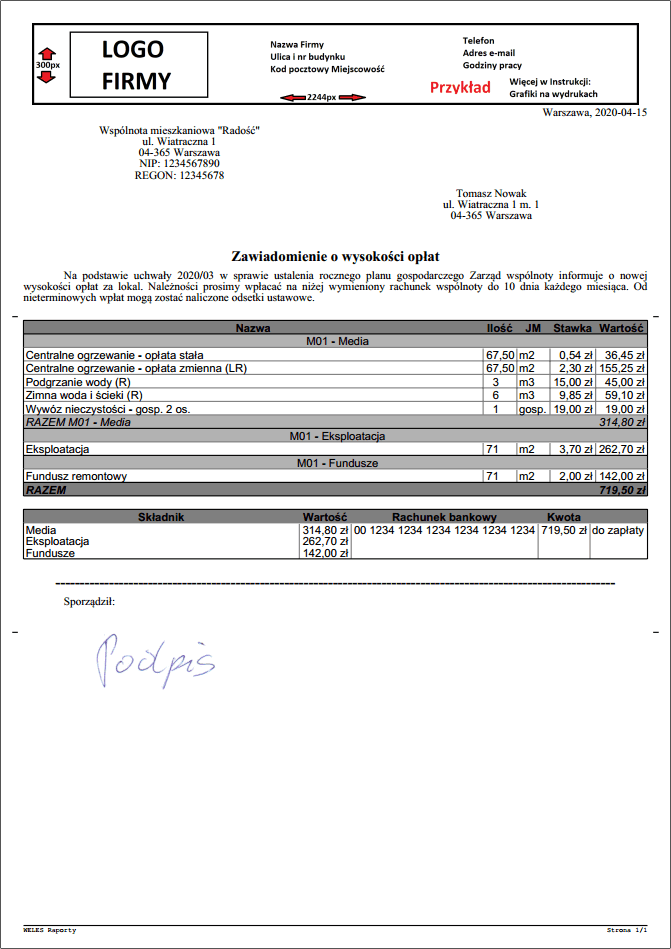
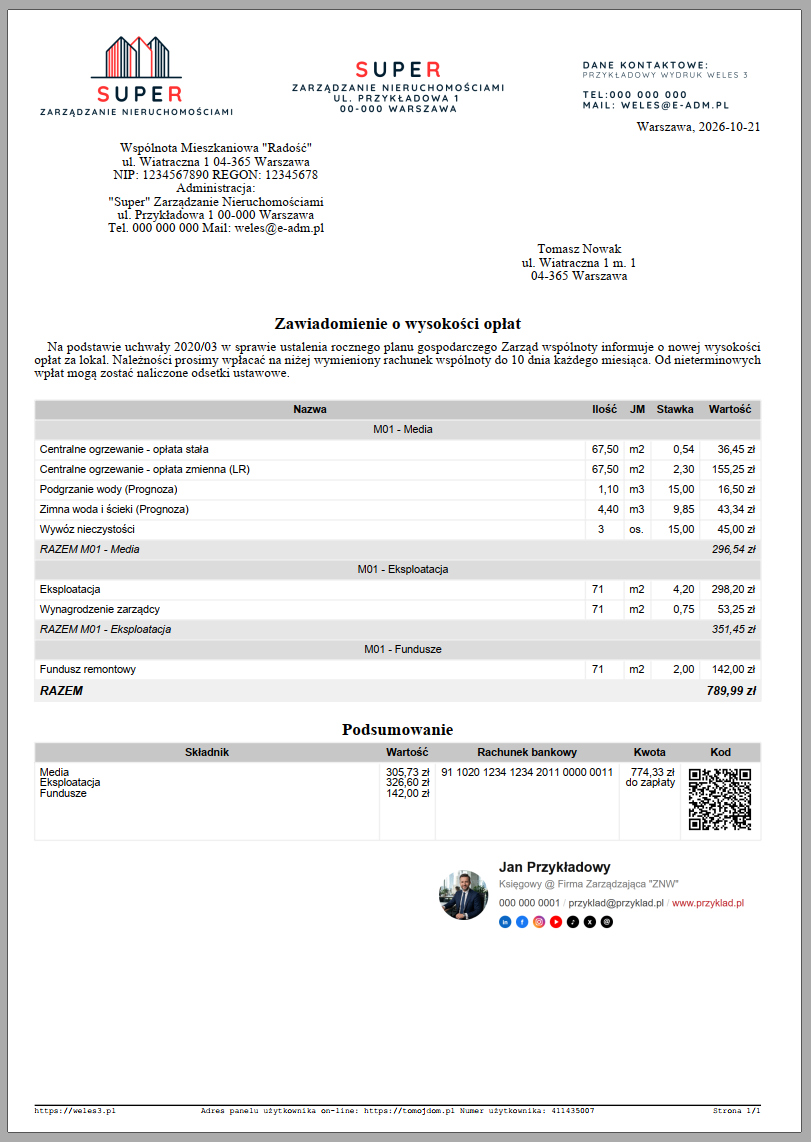
popr instr obraz wydr

diff --git a/ogolne/wydruki/_posts/2020-07-07-Grafiki na wydrukach.md b/ogolne/wydruki/_posts/2020-07-07-Grafiki na wydrukach.md
@@ -4,21 +4,16 @@ title: Grafiki na wydrukach
 
 # Grafiki na wydrukach
 
-Program pozwana na umieszczenie plików graficznych na systemowych wydrukach. Dzięki temu wydrukom można nadać profesjonalny wygląd — dodając nagłówek lub dodać skan pieczątki, lub podpisu na końcu dokumentu. Wszystko zaczyna się od stworzenia grafiki/skanu do umieszczenia w programie. W przypadku:
+Program pozwana na umieszczenie plików graficznych na systemowych wydrukach. Dzięki temu wydrukom można nadać profesjonalny wygląd — dodając nagłówek lub dodać skan pieczątki, lub podpisu na końcu dokumentu. Wszystko zaczyna się od stworzenia grafiki/skanu do umieszczenia w programie.
 
-- Nagłówka strony zalecamy rozmiar grafiki 2244 × 300 oraz ustawienie DPI na 300, co w konsekwencji da obraz rozmiaru 19,00 cm x 2,54 cm. Nagłówek dokumentu tworzymy w zewnętrznym programie. Przykład:
+W przypadku nagłówka strony zalecamy rozmiar grafiki `2244 × 300` oraz ustawienie DPI na `300`, co w konsekwencji da obraz rozmiaru 19,00 cm x 2,54 cm. Nagłówek dokumentu tworzymy w zewnętrznym programie. Przykład:
 
 ![Przykład nagłówka](przykladnaglowka.png)
 
-- Skan pieczątki/podpisu — tutaj rozmiar grafiki i DPI zależy od fizycznego rozmiaru pieczątki i opcji skanowania. Schemat postępowania jest tutaj następujący:
+W przypadku skanu pieczątki/podpisu — tutaj rozmiar grafiki i DPI zależy od fizycznego rozmiaru pieczątki i opcji skanowania. Schemat postępowania jest tutaj następujący:
+
 - Podczas skanowania, w opcjach ustawiamy obszar skanowania jak najbardziej dopasowany do rozmiaru pieczątki/podpisu.
 - Importujemy plik do systemu, DPI ustawiamy takie same jak użyte podczas skanowania.
-
-#### Skanowanie
-
-Proces skanowania przedstawiamy poniżej. Prosimy zapamiętać DPI skanowanych obrazków.
-
-![Skanowanie podpisu](skanowanie.gif)
 
 #### Dodanie obrazu do systemu
 
@@ -26,59 +21,70 @@ Po stworzeniu lub zeskanowaniu obrazu trzeba dodać go do systemu. Aby zaimporto
 
 - Menu `Funkcje` > `Wydruki`.
 - Menu `Funkcje` > `Obrazy dla wydruków`.
-- Zakładka `Dodawanie`.
+- Klikamy: `Utwórz`.
 - Pole `Plik` > wybieramy plik z dysku komputera.
-- Pole `DPI` > wpisujemy pożądane DPI.
-- Pole `Opis` > wpisujemy opis pliku.
-- Wpisujemy `Hasło`.
-- Klikamy: `Zatwierdź`.
+- Pole `Nazwa` > wpisujemy opis pliku.
+- Pole `DPI` > wpisujemy pożądane DPI (np. 300).
+- Pole `Użyj jako nagłowka` > `Tak` / `Nie` > decydujemy, czy obraz ma być nagłowkiem.
+- Pole `Nagłówek dla` > wyświetli się tylko wtedy, gdy w poprzednim polu wybraliśmy `Tak`.
+    - `Weles 3 FK` > wybieramy tę pozycję jeśli chcemy, aby dodawany plik był nagłowkiem dla wszystkich zasobów.
+    - Jeśli dodawany plik jest indywidualny, wybieramy konkretny zasób z listy.
+- Klikamy: `Utwórz`.
 
-Okno zamknie się, wczytana grafika jest od razu możliwa do użycia na wydrukach.
+Okno zamknie się, wczytana grafika jest od razu możliwa do użycia na wydrukach. W podobny sposób edytujemy ustawienia pliku graficznego, z tą różnicą że po wybraniu pliku, naciskamy `Edytuj`.
 
 ![Dodanie grafiki](dodanieobrazka.gif)
 
-#### Edycja obrazów
+#### Użycie nagłówka na wydrukach
 
-Jeśli importowaliśmy plik, który ma być użyty jako nagłówek, to trzeba ustawić ten parametr w systemie. Aby to zrobić, należy przejść do:
+Jeśli importowaliśmy plik, który ma być użyty jako nagłówek, to od razu będzie on używany przez system przy tworzeniu wydruków. Ustawienia dotyczące nagłówka znajdują się w:
 
 - Menu `Funkcje` > `Wydruki`.
-- Menu `Funkcje` > `Obrazy dla wydruków`.
-- Zakładka `Edycja`.
-- Pole `Obraz` > wybieramy plik z listy.
-- Pole `Nazwa` > pozostawiamy bez zmian lub ew. zmieniamy na inne.
-- Pole `DPI` > pozostawiamy bez zmian lub ew. zmieniamy na inne.
-- Pole `Użyj jako nagłówka` > wybieramy `Użyj`.
-- Pole `Nagłówek dla` > ustawiamy `Weles 3 FK`, jeśli ma być dostępny w każdym budynku.
-- Wpisujemy `Hasło`.
-- Klikamy: `Zatwierdź`.
 
-Od tego momentu można używać nagłówka na wydrukach. Powyższe czynności na ogół wykonujemy tylko raz.
+W każdej zakładce znajduje się pole `Użyj nagłówka`.
 
-![Ustawienie nagłówka](ustawienienaglowka.gif)
+![Ustawienie nagłówka](uzyjnaglowka.png)
+
+Można tutaj ustawić:
+
+- `Użyj i skaluj` > domyślny wybór, zazwyczaj nie trzeba zmieniać, nagłówek zostanie pokazany na wydruku, jego szerokość zostanie dostosowana do marginesów bocznych strony.
+- `Użyj` > nagłowek zostanie użyty, jego rozmiar będzie determinowany przez ustawione DPI podczas dodawania pliku.
+- `Nie używaj` > wyłącza pokazywanie nagłówka.
 
 #### Użycie obrazów na wydrukach
 
-Aby użyć dodanej grafiki na wydrukach, należy przejść do:
+Aby użyć grafiki na wydrukach, należy przejść do:
 
 - Menu `Funkcje` > `Wydruki`.
-- Pole `Użyj nagłówka` > można ustawić drukowanie się nagłówka strony.
-- Skomponować wydruk.
-- Za dodanie skanu pieczątki lub podpisu, lub innej grafiki, odpowiada wydruk: `Obraz`.
-- Pole `Obraz` > ustawiamy odpowiedni plik.
+
+Następnie należy skomponować wydruk z listy elementów dostępnych w środkowej części okna. W dowolnym momencie należy dodać element `Obraz`, a w opcjach ustawić:
+
+- Pole `Obraz` > wybieramy:
+    - `Obraz pobrany z dysku` > grafikę można dodać prosto z dysku komputera. Jeśli to wybierzemy, dodajemy plik w polu `Plik z dysku`.
+    - Jako kolejne pozycje w tym polu będą wyświetlane wcześniej dodane pliki graficzne do systemu, wybieramy jeden z nich.
 - Pole `Pozycja` > ustawiamy odległość, to pole jest zależne od pola `Justowanie`.
-- Pole `DPI` > ustawiamy DPI.
+- Pole `DPI` > ustawiamy DPI. Wpisując wartość możemy dostosować wielkość obrazka. Typowy zakres od 100 do 600 DPI. Pozostawiając te pole puste, zostanie użyte domyślne DPI określone przy dodawaniu pliku.
 - Pole `Justowanie` > ustawiamy justowanie.
+
+Na koniec sprawdzamy wygląd wydruku w PDF:
+
 - Klikamy: `Podgląd wydruku`.
 
-Aby nie powtarzać za każdym razem tych czynności, sugerujemy skorzystać ze Schematów wydruków.
+Zachęcamy do samodzielnego przetestowania różnych ustawień w elemencie `Obraz`.
 
 ![Użycie grafiki](uzyciegrafiki.gif)
 
 #### Przykładowy wydruk
 
-Poniżej przedstawiamy przykładowy wydruk z użytym nagłówkiem strony oraz skanem podpisu.
+Poniżej przedstawiamy przykładowy wydruk z użytym nagłówkiem strony oraz stopką graficzną.
 
 ![Użycie grafiki](przykladgrafikipdf.png)
+
+#### Skanowanie
+
+Proces skanowania przedstawiamy poniżej. Prosimy zapamiętać DPI skanowanych obrazków.
+
+![Skanowanie podpisu](skanowanie.gif)
 
 #### Uwagi:
 
